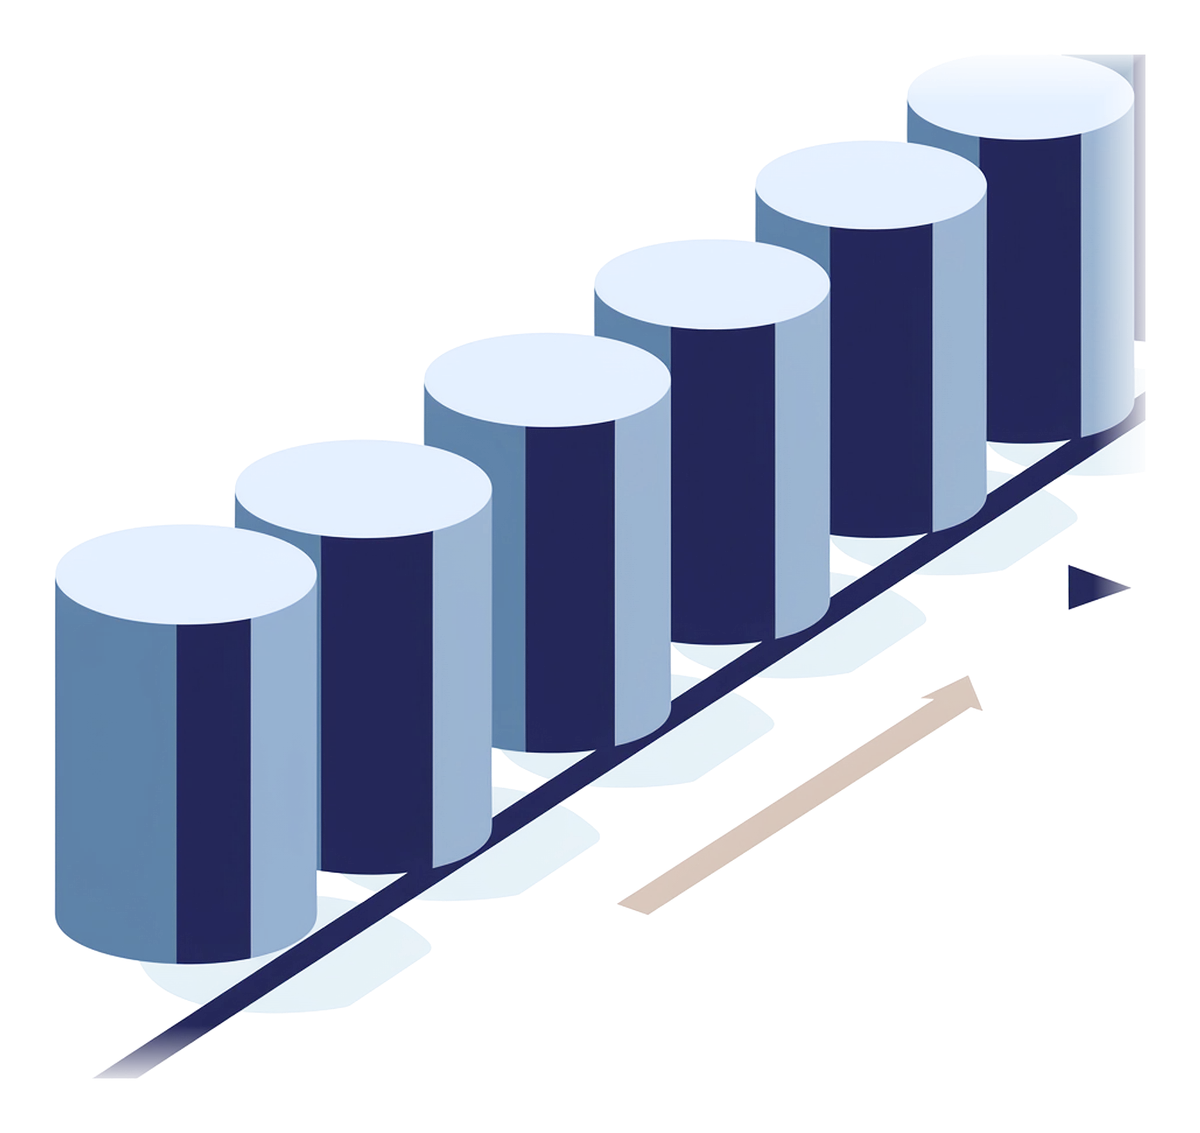
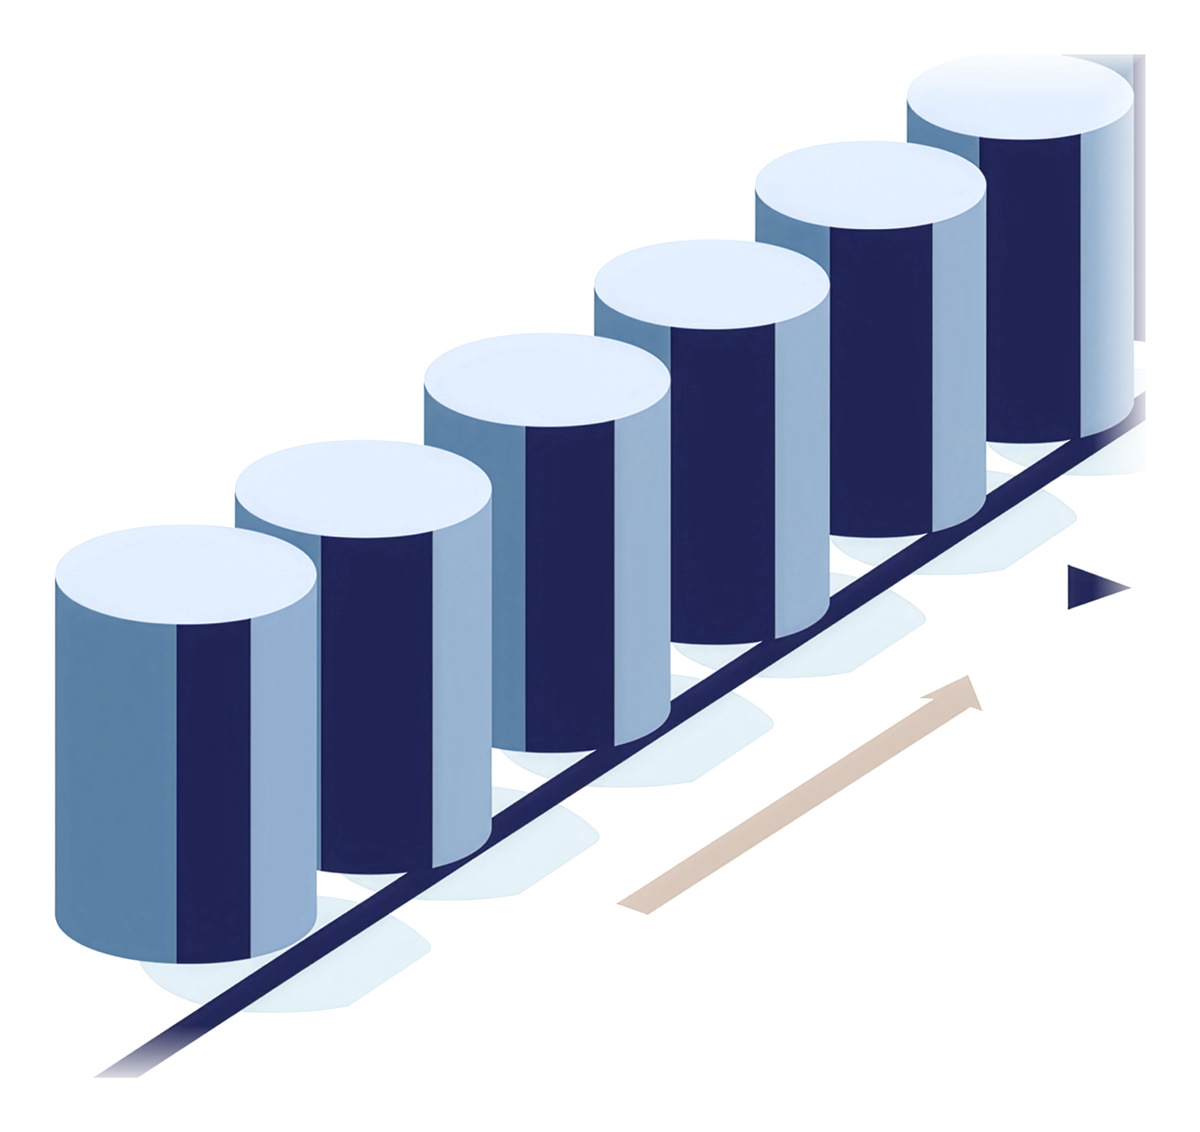
Five more case-study heroes from Firefly Upscaler 4x sources (24 of 63)

Changed region(s): [[0.37, 0.742, 0.4008, 0.773], [0.2158, 0.8348, 0.2467, 0.8657]]

diff --git a/web/content/image-licences.ts b/web/content/image-licences.ts
@@ -315,7 +315,7 @@ export const imageLicences: ImageLicence[] = [
     file: "public/hero/case-study-beverage-bottling-group-south-asia-africa.webp",
     source: "licensed-generative",
     provider: "Adobe Firefly",
-    reference: "firefly-image5-2026-11-26-spec63-59 (local 4x enlargement; Firefly Upscaler pending)",
+    reference: "firefly-image5-2026-11-26-spec63-59 (Firefly Upscaler 4x)",
     acquired: "2026-11-26",
     depicts: "A row of identical navy and steel cylinders standing on a single moving line",
     aiGenerated: true,
@@ -345,7 +345,7 @@ export const imageLicences: ImageLicence[] = [
     file: "public/hero/case-study-edtech-unicorn.webp",
     source: "licensed-generative",
     provider: "Adobe Firefly",
-    reference: "firefly-image5-2026-11-26-spec63-52 (local 4x enlargement; Firefly Upscaler pending)",
+    reference: "firefly-image5-2026-11-26-spec63-52 (Firefly Upscaler 4x)",
     acquired: "2026-11-26",
     depicts: "An ascending series of stepped steel and navy plates",
     aiGenerated: true,
@@ -416,7 +416,7 @@ export const imageLicences: ImageLicence[] = [
     file: "public/hero/case-study-b2b-ict-operator-belgium.webp",
     source: "licensed-generative",
     provider: "Adobe Firefly",
-    reference: "firefly-image5-2026-11-26-spec63-47 (local 4x enlargement; Firefly Upscaler pending)",
+    reference: "firefly-image5-2026-11-26-spec63-47 (Firefly Upscaler 4x)",
     acquired: "2026-11-26",
     depicts: "A mesh of connected navy and blue points with thin signal arcs passing between them",
     aiGenerated: true,
@@ -436,7 +436,7 @@ export const imageLicences: ImageLicence[] = [
     file: "public/hero/case-study-direct-to-consumer-wellness-brand-india.webp",
     source: "licensed-generative",
     provider: "Adobe Firefly",
-    reference: "firefly-image5-2026-11-26-spec63-51 (local 4x enlargement; Firefly Upscaler pending)",
+    reference: "firefly-image5-2026-11-26-spec63-51 (Firefly Upscaler 4x)",
     acquired: "2026-11-26",
     depicts: "A column of stacked rounded forms in navy and blues, diminishing in size toward the top",
     aiGenerated: true,
@@ -446,7 +446,7 @@ export const imageLicences: ImageLicence[] = [
     file: "public/hero/case-study-diversified-manufacturing-group-india.webp",
     source: "licensed-generative",
     provider: "Adobe Firefly",
-    reference: "firefly-image5-2026-11-26-spec63-57 (local 4x enlargement; Firefly Upscaler pending)",
+    reference: "firefly-image5-2026-11-26-spec63-57 (Firefly Upscaler 4x)",
     acquired: "2026-11-26",
     depicts: "Several distinct navy and blue forms of different shape sharing one common base plate",
     aiGenerated: true,
